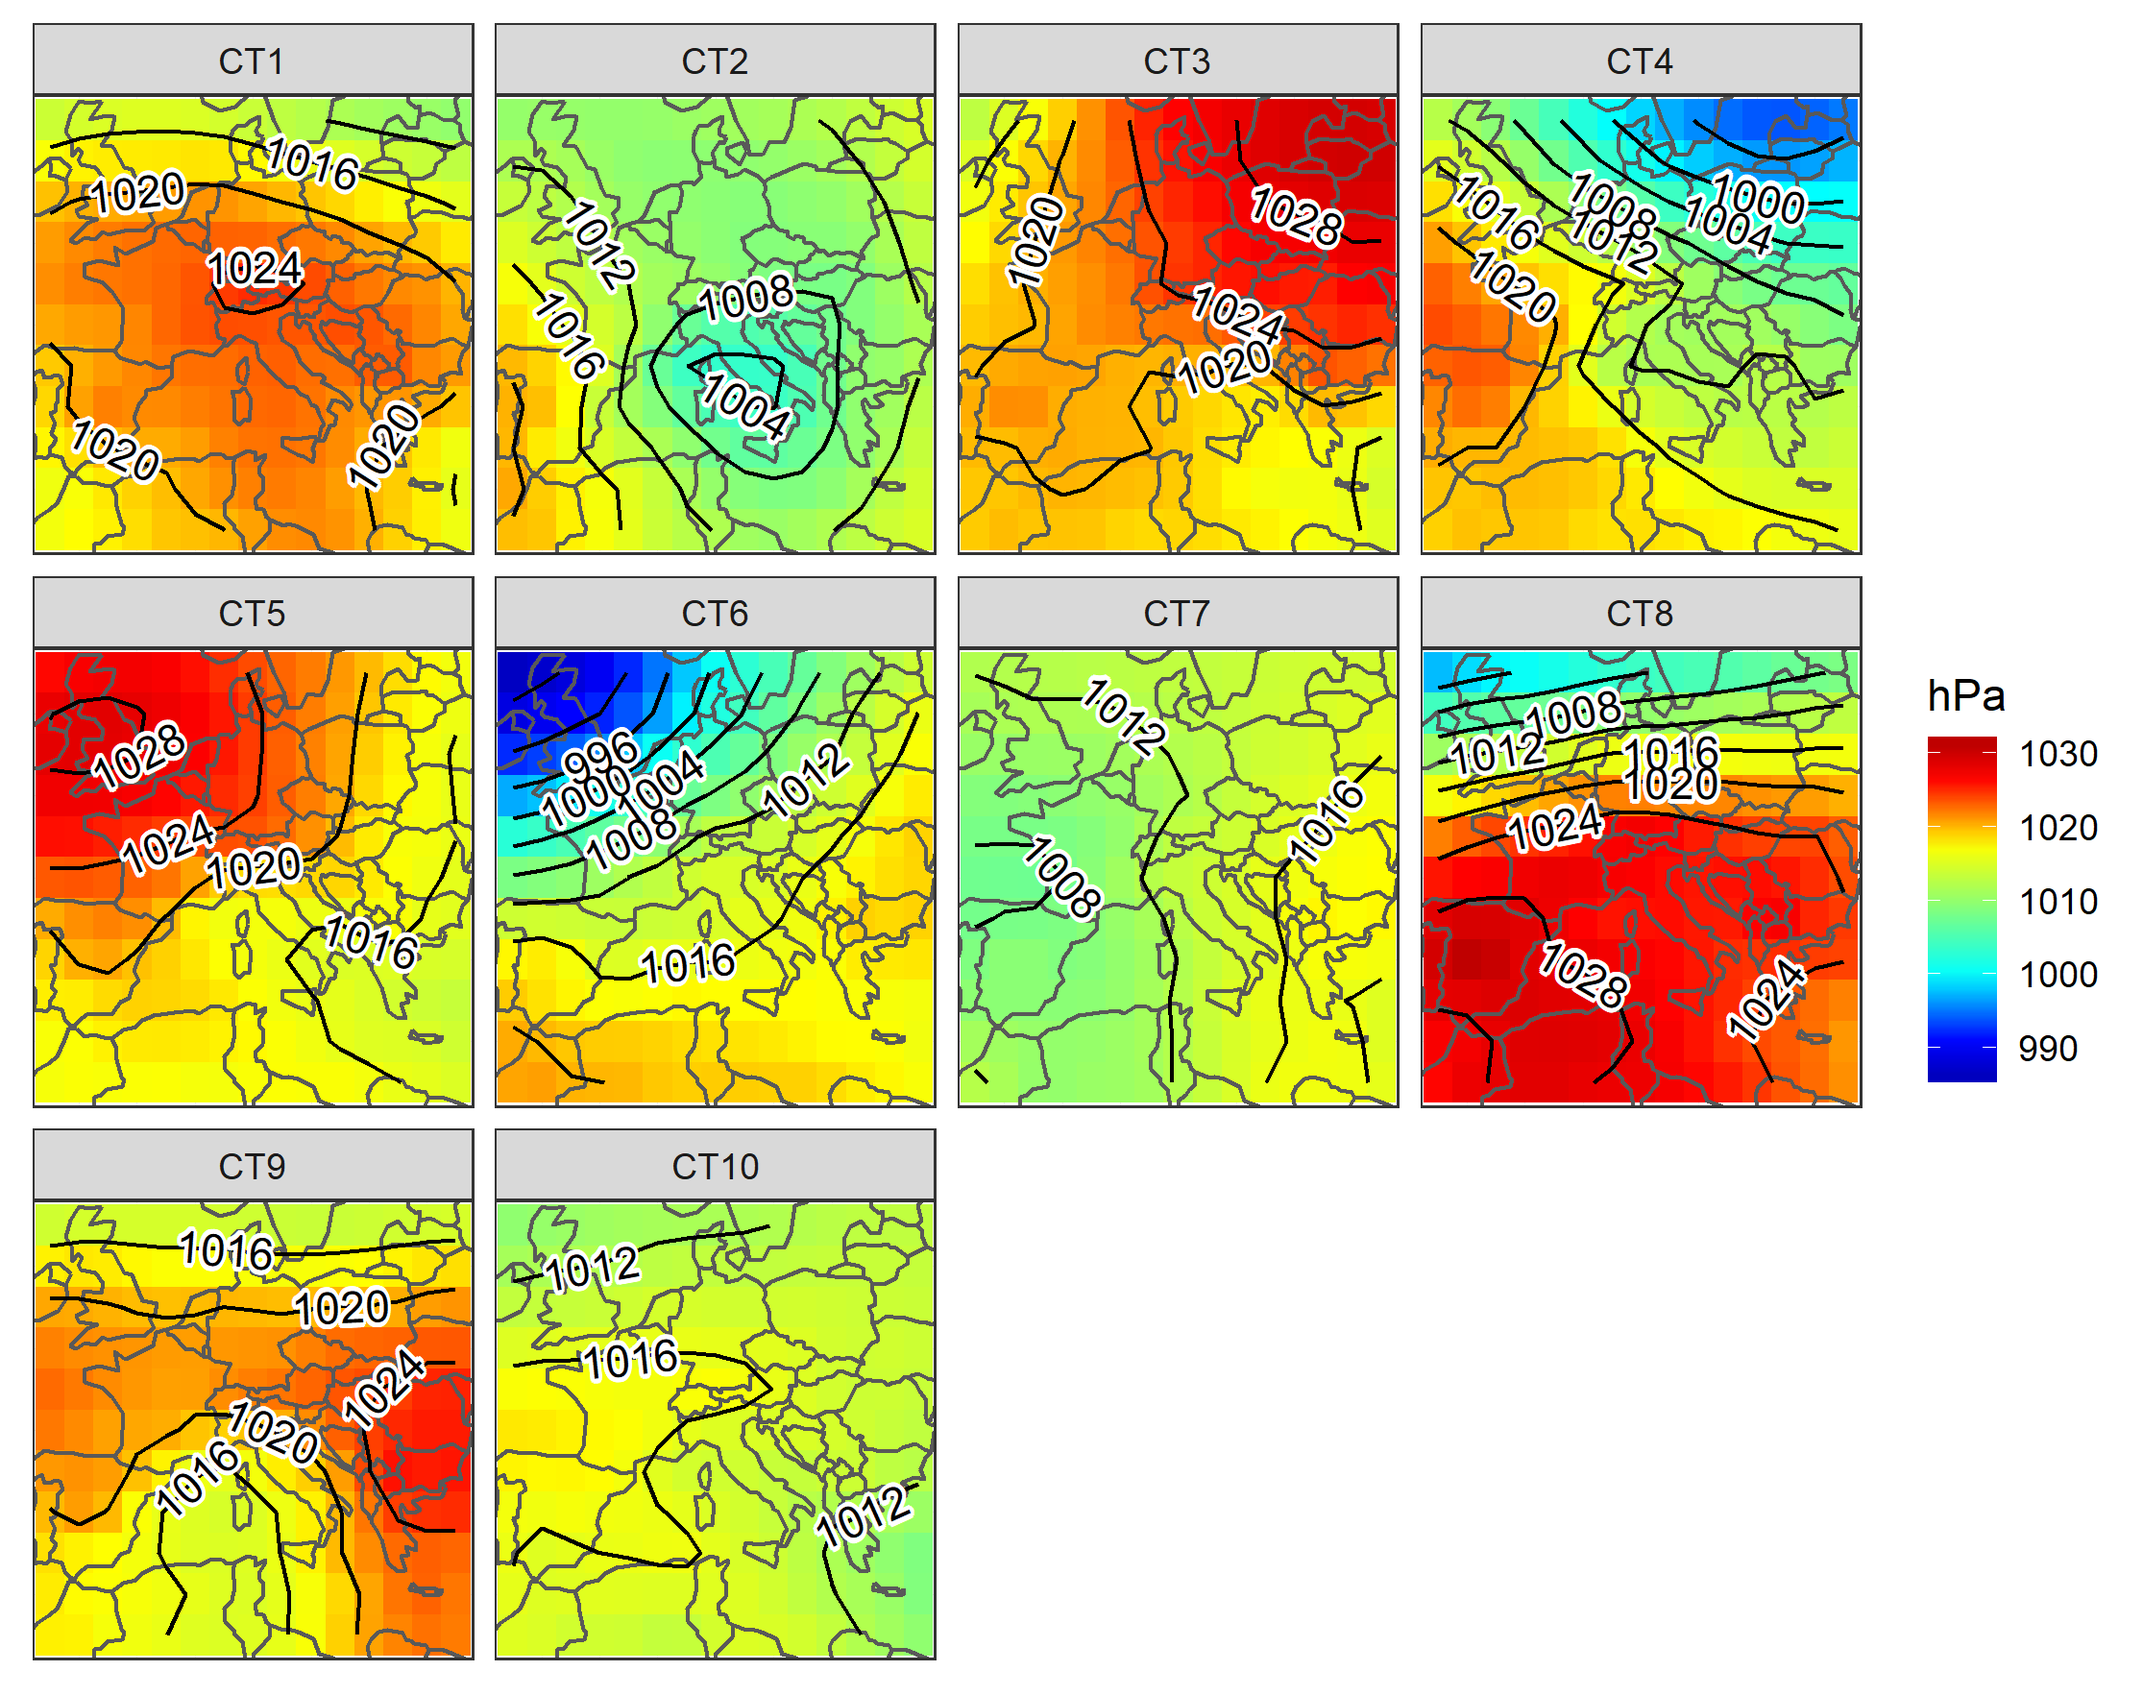
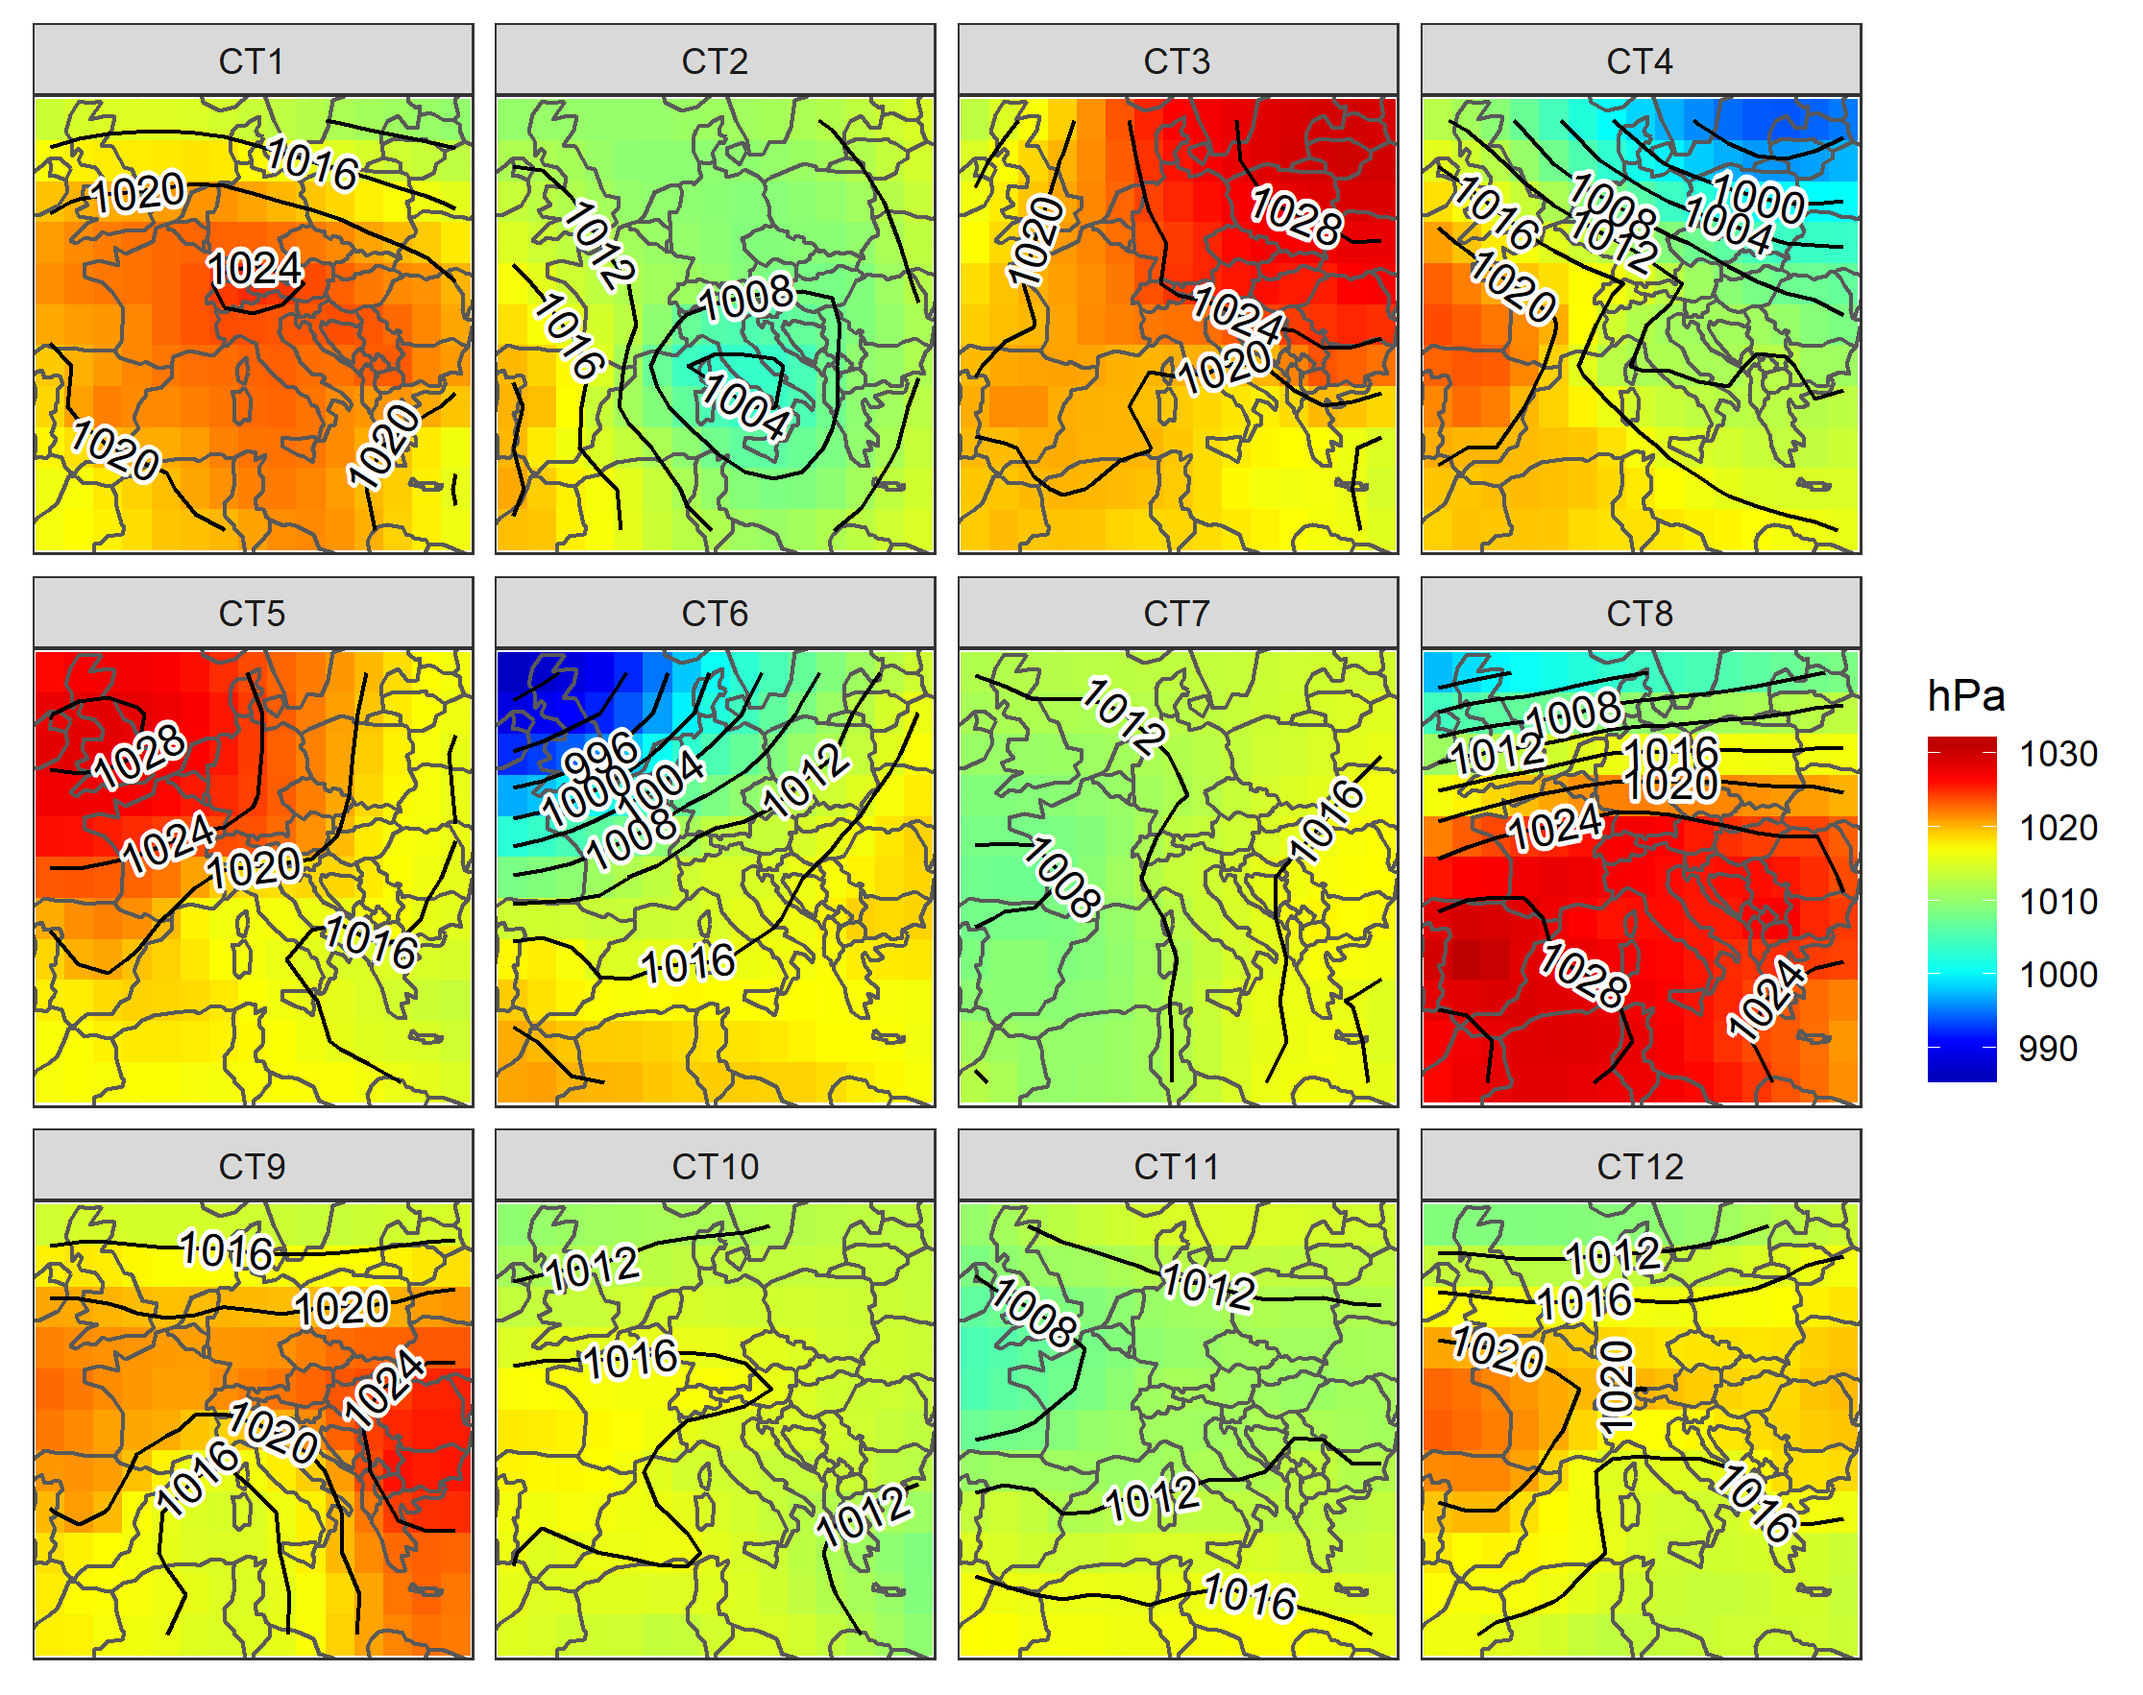
update

Changed region(s): [[0.433, 0.6544, 0.866, 0.9972]]

diff --git a/synoptreg/index.html b/synoptreg/index.html
@@ -200,7 +200,7 @@
 <a class="sourceLine" id="cb7-17" title="17">synclas_gather_df &lt;-<span class="st"> </span><span class="kw">gather</span>(<span class="dt">data =</span> synclas_df,</a>
 <a class="sourceLine" id="cb7-18" title="18">                            <span class="dt">key =</span> <span class="st">"key"</span>,</a>
 <a class="sourceLine" id="cb7-19" title="19">                            <span class="dt">value =</span> <span class="st">"value"</span>,</a>
-<a class="sourceLine" id="cb7-20" title="20">                            CT1<span class="op">:</span>CT10) <span class="op">%&gt;%</span><span class="st"> </span></a>
+<a class="sourceLine" id="cb7-20" title="20">                            CT1<span class="op">:</span>CT12) <span class="op">%&gt;%</span><span class="st"> </span></a>
 <a class="sourceLine" id="cb7-21" title="21"><span class="st">                     </span><span class="kw">mutate</span>(<span class="dt">value =</span> value<span class="op">/</span><span class="dv">100</span>) <span class="co">#conversion to hPa</span></a>
 <a class="sourceLine" id="cb7-22" title="22">                            </a>
 <a class="sourceLine" id="cb7-23" title="23">synclas_gather_df<span class="op">$</span>key &lt;-<span class="st"> </span><span class="kw"><a href="https://www.rdocumentation.org/packages/base/topics/factor">factor</a></span>(synclas_gather_df<span class="op">$</span>key, <span class="dt">levels =</span> <span class="kw"><a href="https://www.rdocumentation.org/packages/base/topics/paste">paste0</a></span>(<span class="st">"CT"</span>, <span class="dv">1</span><span class="op">:</span><span class="dv">12</span>))</a></code></pre></div>
